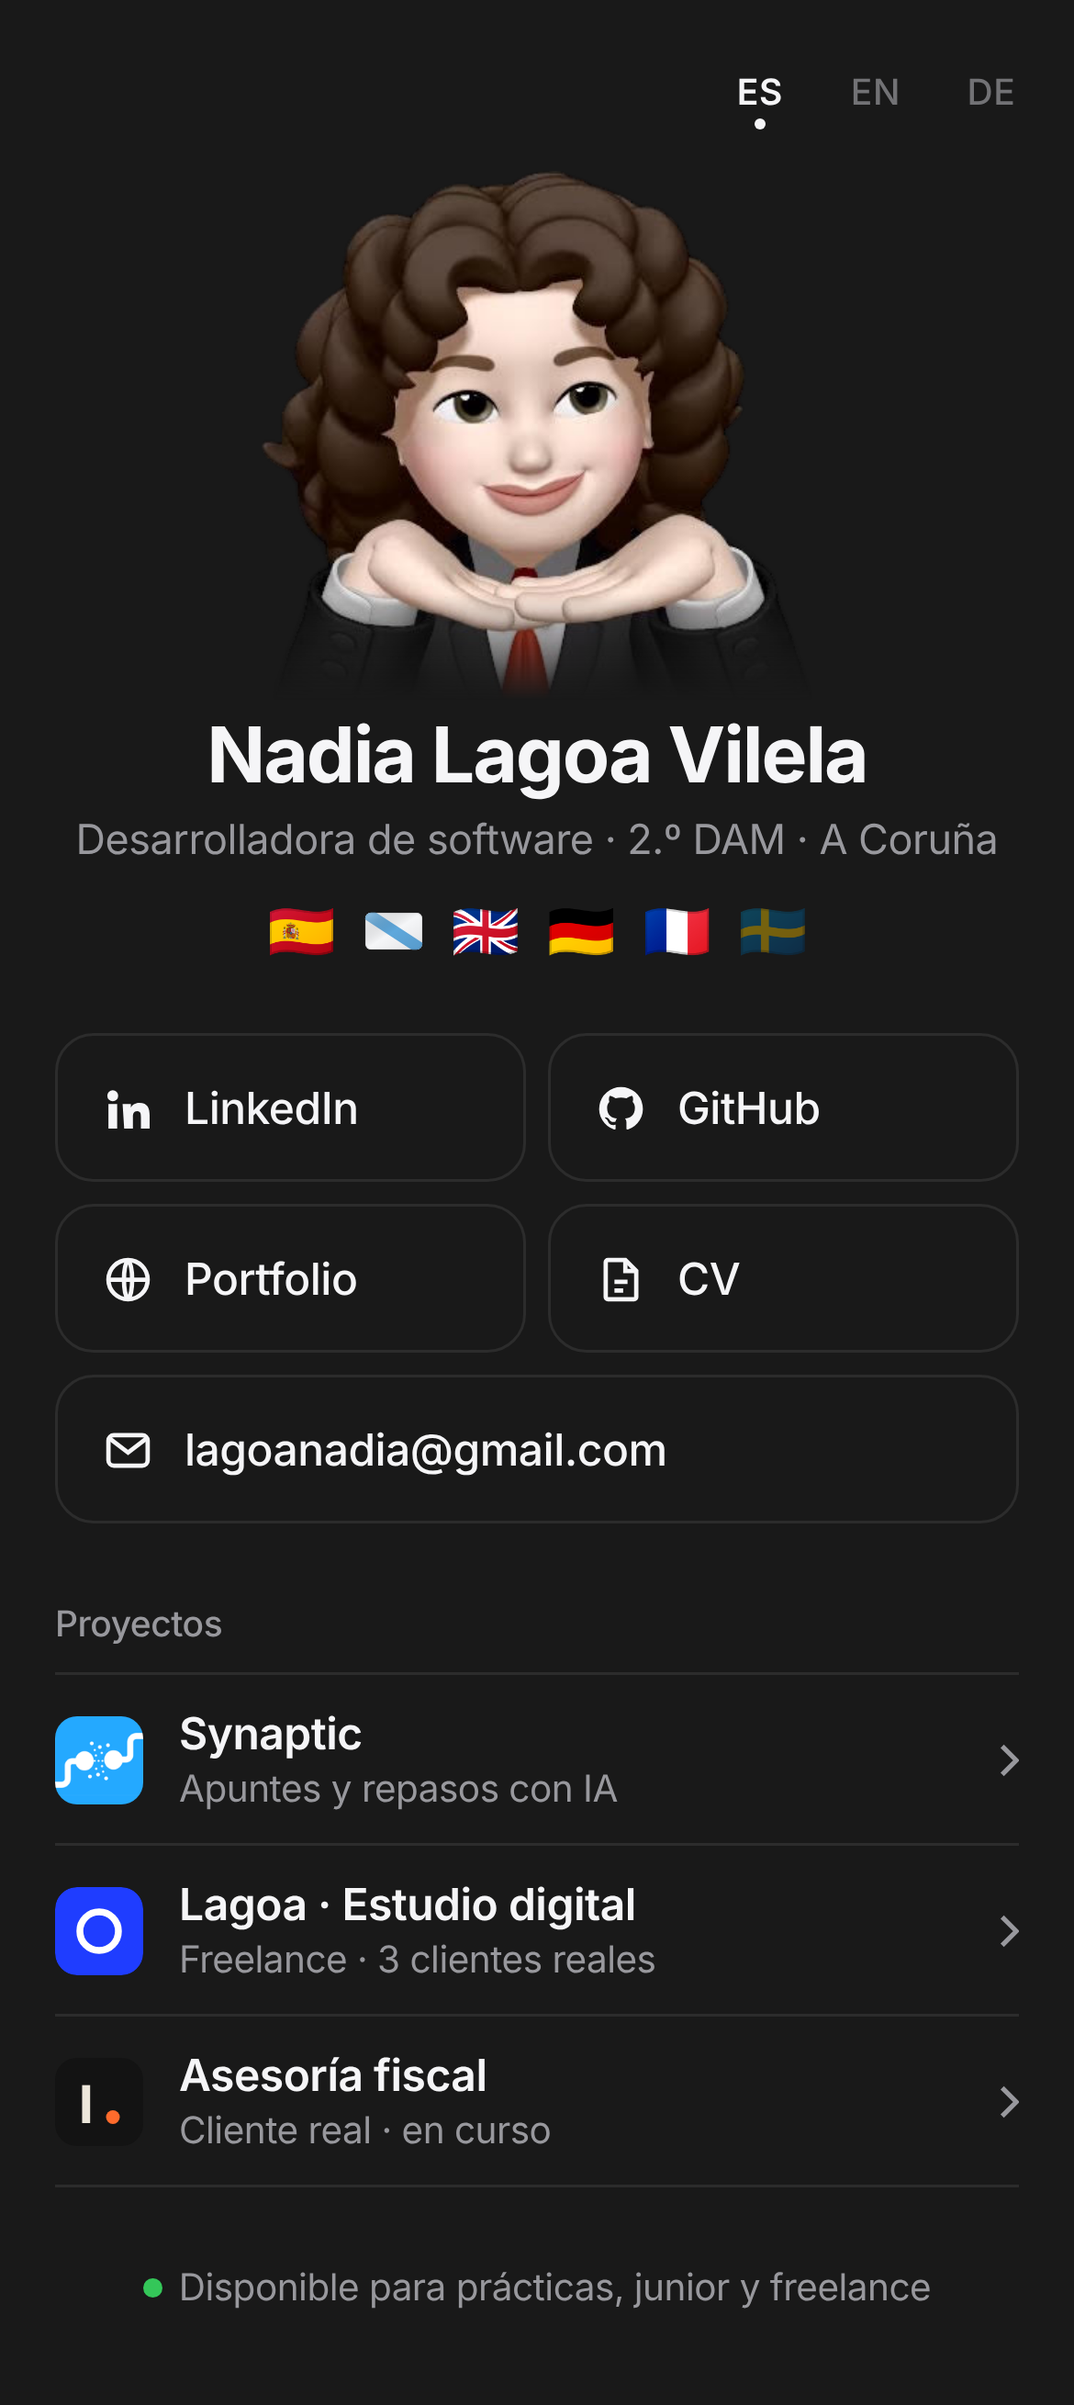
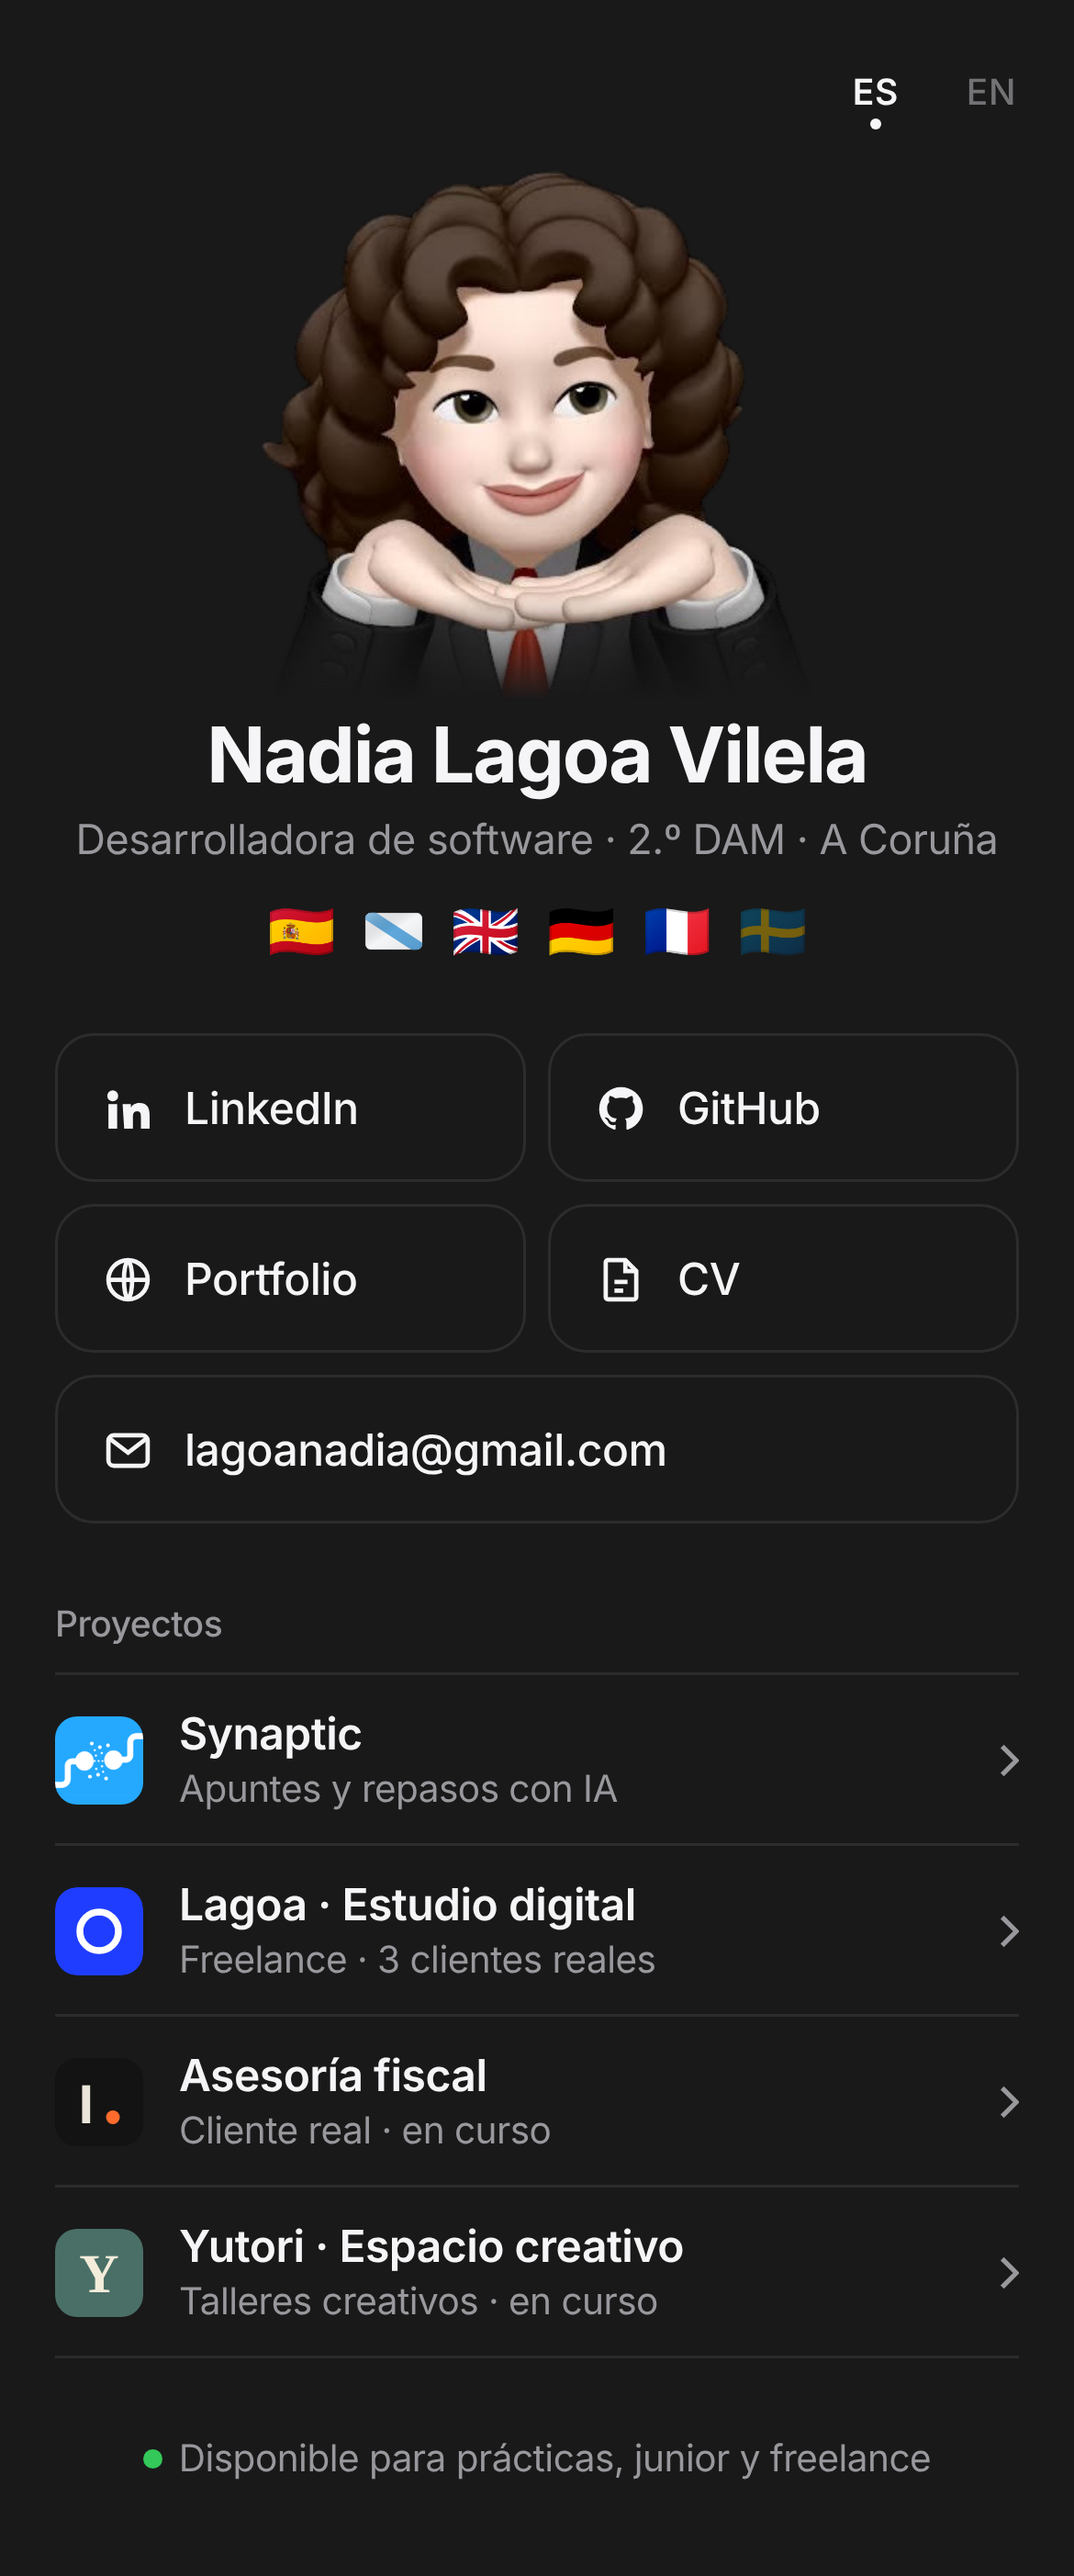
Añadir proyecto Yutori
Claude-Session: https://claude.ai/code/session_012gZcx71BmCNMhoCCkeSb98

diff --git a/index.html b/index.html
@@ -117,6 +117,9 @@ footer{margin-top:28px;text-align:center;color:var(--muted);font-size:13.5px}
       <li><a href="https://asesoria-fiscal.lagoanadia.workers.dev/" target="_blank" rel="noopener">
         <img src="img/asesoria.svg" alt="" width="32" height="32"><div><strong data-i18n="p3t">Asesoría fiscal</strong><small data-i18n="p3">Cliente real · en curso</small></div>
         <svg class="ch" viewBox="0 0 8 14" fill="none" stroke="currentColor" stroke-width="2" aria-hidden="true"><path d="M1 1l6 6-6 6"/></svg></a></li>
+      <li><a href="https://yutori.lagoanadia.workers.dev/" target="_blank" rel="noopener">
+        <img src="img/yutori.svg" alt="" width="32" height="32"><div><strong data-i18n="p4t">Yutori · Espacio creativo</strong><small data-i18n="p4">Talleres creativos · en curso</small></div>
+        <svg class="ch" viewBox="0 0 8 14" fill="none" stroke="currentColor" stroke-width="2" aria-hidden="true"><path d="M1 1l6 6-6 6"/></svg></a></li>
     </ul>
   </section>
 
@@ -125,8 +128,8 @@ footer{margin-top:28px;text-align:center;color:var(--muted);font-size:13.5px}
 <script>
 (function(){
   var T={
-    es:{title:"Nadia Lagoa Vilela · Desarrolladora de software",skip:"Saltar a los enlaces",alt:"Memoji de Nadia",langs:"Idiomas: español, gallego, inglés, alemán, francés; aprendiendo sueco",role:"Desarrolladora de software · 2.º DAM · A Coruña",cvAria:"Ver CV (PDF)",projects:"Proyectos",p1:"Apuntes y repasos con IA",p2:"Freelance · 3 clientes reales",p3t:"Asesoría fiscal",p3:"Cliente real · en curso",avail:"Disponible para prácticas, junior y freelance"},
-    en:{title:"Nadia Lagoa Vilela · Software developer",skip:"Skip to links",alt:"Nadia's Memoji",langs:"Languages: Spanish, Galician, English, German, French; learning Swedish",role:"Software developer · 2nd-year DAM · A Coruña",cvAria:"View CV (PDF)",projects:"Projects",p1:"AI-powered notes and reviews",p2:"Freelance · 3 real clients",p3t:"Tax advisory",p3:"Real client · in progress",avail:"Open to internships, junior roles and freelance"}
+    es:{title:"Nadia Lagoa Vilela · Desarrolladora de software",skip:"Saltar a los enlaces",alt:"Memoji de Nadia",langs:"Idiomas: español, gallego, inglés, alemán, francés; aprendiendo sueco",role:"Desarrolladora de software · 2.º DAM · A Coruña",cvAria:"Ver CV (PDF)",projects:"Proyectos",p1:"Apuntes y repasos con IA",p2:"Freelance · 3 clientes reales",p3t:"Asesoría fiscal",p3:"Cliente real · en curso",p4t:"Yutori · Espacio creativo",p4:"Talleres creativos · en curso",avail:"Disponible para prácticas, junior y freelance"},
+    en:{title:"Nadia Lagoa Vilela · Software developer",skip:"Skip to links",alt:"Nadia's Memoji",langs:"Languages: Spanish, Galician, English, German, French; learning Swedish",role:"Software developer · 2nd-year DAM · A Coruña",cvAria:"View CV (PDF)",projects:"Projects",p1:"AI-powered notes and reviews",p2:"Freelance · 3 real clients",p3t:"Tax advisory",p3:"Real client · in progress",p4t:"Yutori · Creative space",p4:"Creative workshops · in progress",avail:"Open to internships, junior roles and freelance"}
   };
   function set(l){
     var d=T[l];document.documentElement.lang=l;document.title=d.title;
